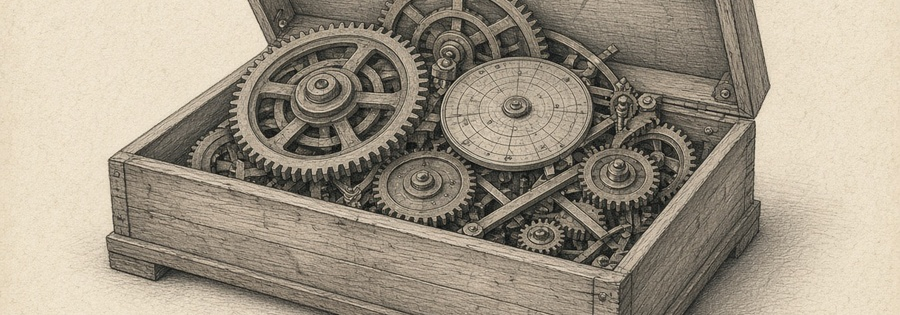
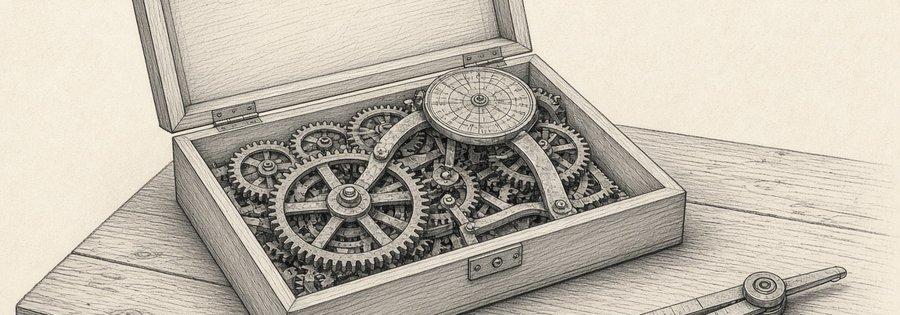
Antikythera: matching pencil still-life door + more intricate 3D gears and case

diff --git a/aog-deploy/antikythera.html b/aog-deploy/antikythera.html
@@ -249,36 +249,70 @@ const hub = new THREE.MeshStandardMaterial({ color: 0x2A241C, metalness: 0.8, ro
 
 function createGear(radius, thickness, teeth, material) {
   const group = new THREE.Group();
-  // Main body
-  const body = new THREE.Mesh(new THREE.CylinderGeometry(radius * 0.78, radius * 0.78, thickness, 48), material);
+  // Involute-style tooth profile (more authentic than triangles)
+  const toothShape = new THREE.Shape();
+  const pitch = (Math.PI * 2 * radius) / teeth;
+  const tw = pitch * 0.42;
+  const th = pitch * 0.85;
+  toothShape.moveTo(-tw * 0.55, 0);
+  toothShape.lineTo(-tw * 0.28, th * 0.35);
+  toothShape.lineTo(-tw * 0.12, th * 0.78);
+  toothShape.lineTo(0, th);
+  toothShape.lineTo(tw * 0.12, th * 0.78);
+  toothShape.lineTo(tw * 0.28, th * 0.35);
+  toothShape.lineTo(tw * 0.55, 0);
+  toothShape.closePath();
+  const toothGeo = new THREE.ExtrudeGeometry(toothShape, { depth: thickness * 0.92, bevelEnabled: true, bevelThickness: 0.008, bevelSize: 0.008, bevelSegments: 1 });
+  // Body with slight rim
+  const body = new THREE.Mesh(new THREE.CylinderGeometry(radius * 0.74, radius * 0.74, thickness * 0.85, 64), material);
   body.rotation.x = Math.PI / 2;
   group.add(body);
-  // More authentic triangular-ish teeth
-  const toothShape = new THREE.Shape();
-  const tw = radius * 0.14;
-  const th = radius * 0.22;
-  toothShape.moveTo(-tw / 2, 0);
-  toothShape.lineTo(tw / 2, 0);
-  toothShape.lineTo(0, th);
-  toothShape.closePath();
-  const toothGeo = new THREE.ExtrudeGeometry(toothShape, { depth: thickness * 0.95, bevelEnabled: false });
+  const rim = new THREE.Mesh(new THREE.TorusGeometry(radius * 0.74, thickness * 0.12, 8, 48), material);
+  rim.rotation.x = Math.PI / 2;
+  group.add(rim);
   for (let i = 0; i < teeth; i++) {
     const a = (i / teeth) * Math.PI * 2;
     const tooth = new THREE.Mesh(toothGeo, material);
-    tooth.position.set(Math.cos(a) * radius * 0.82, 0, Math.sin(a) * radius * 0.82);
+    tooth.position.set(Math.cos(a) * radius * 0.78, 0, Math.sin(a) * radius * 0.78);
     tooth.rotation.y = -a;
     tooth.rotation.x = Math.PI / 2;
     group.add(tooth);
   }
-  // Hub with slight rim
-  const h = new THREE.Mesh(new THREE.CylinderGeometry(radius * 0.16, radius * 0.16, thickness + 0.06, 16), hub);
-  h.rotation.x = Math.PI / 2;
-  group.add(h);
-  const rim = new THREE.Mesh(new THREE.TorusGeometry(radius * 0.22, thickness * 0.08, 8, 16), hub);
-  rim.rotation.x = Math.PI / 2;
-  group.add(rim);
+  // Hub, spokes hint, and central bore
+  const hubMesh = new THREE.Mesh(new THREE.CylinderGeometry(radius * 0.18, radius * 0.18, thickness + 0.04, 24), hub);
+  hubMesh.rotation.x = Math.PI / 2;
+  group.add(hubMesh);
+  const bore = new THREE.Mesh(new THREE.CylinderGeometry(radius * 0.06, radius * 0.06, thickness + 0.08, 12), hub);
+  bore.rotation.x = Math.PI / 2;
+  group.add(bore);
   return group;
 }
+
+// Wooden case
+const caseMat = new THREE.MeshStandardMaterial({ color: 0xC4A574, roughness: 0.7, metalness: 0.05 });
+const caseGroup = new THREE.Group();
+const base = new THREE.Mesh(new THREE.BoxGeometry(10.2, 0.35, 6.2), caseMat);
+base.position.y = -0.55;
+caseGroup.add(base);
+const wallT = 0.18;
+[[0, 0, -3.1, 10.2, 1.1, wallT], [0, 0, 3.1, 10.2, 1.1, wallT],
+ [-5.1, 0, 0, wallT, 1.1, 6.2], [5.1, 0, 0, wallT, 1.1, 6.2]].forEach(w => {
+  const m = new THREE.Mesh(new THREE.BoxGeometry(w[3], w[4], w[5]), caseMat);
+  m.position.set(w[0], w[1] - 0.1, w[2]);
+  caseGroup.add(m);
+});
+scene.add(caseGroup);
+
+// Front dial plate (zodiac / lunar)
+const dialMat = new THREE.MeshStandardMaterial({ color: 0xE8DCC8, roughness: 0.6, metalness: 0.1 });
+const dial = new THREE.Mesh(new THREE.CylinderGeometry(1.6, 1.6, 0.06, 48), dialMat);
+dial.rotation.x = Math.PI / 2;
+dial.position.set(0, 0.35, 1.8);
+scene.add(dial);
+const dialRing = new THREE.Mesh(new THREE.TorusGeometry(1.55, 0.04, 8, 48), brass);
+dialRing.rotation.x = Math.PI / 2;
+dialRing.position.set(0, 0.38, 1.8);
+scene.add(dialRing);
 
 // More authentic tooth counts drawn from Freeth reconstructions
 const mainGear = createGear(2.4, 0.32, 48, brass);   // visual proxy for main drive
